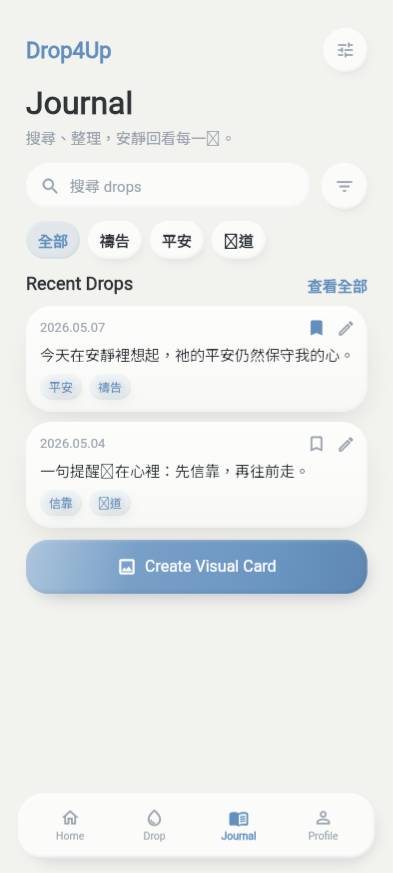
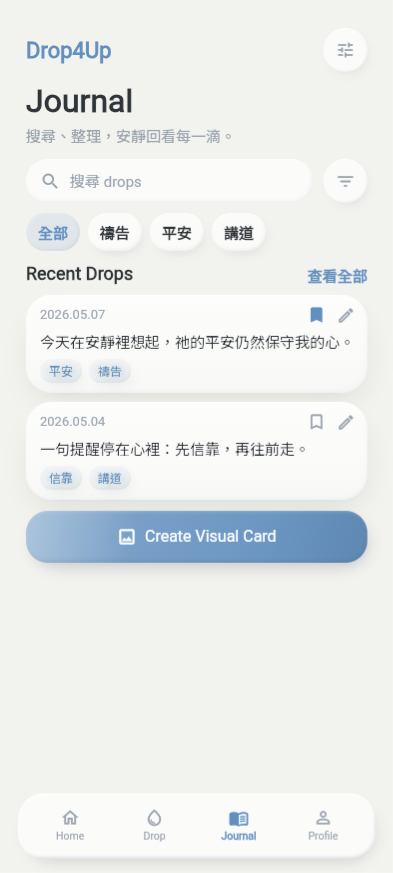
Refine Journal spacing and Profile badges

diff --git a/lib/screens/profile_screen.dart b/lib/screens/profile_screen.dart
@@ -96,16 +96,10 @@ class _ProfileSummaryCard extends StatelessWidget {
       padding: const EdgeInsets.fromLTRB(16, 15, 16, 15),
       child: Row(
         children: [
-          Drop4UpTactileSurface(
-            radius: 24,
-            width: 48,
-            height: 48,
-            color: Drop4UpTokens.lightBlue.withValues(alpha: 0.28),
-            child: const Icon(
-              Icons.person_outline_rounded,
-              size: 24,
-              color: Drop4UpTokens.primaryBlue,
-            ),
+          const _ProfileNeutralIconBadge(
+            icon: Icons.person_outline_rounded,
+            size: 48,
+            iconSize: 24,
           ),
           const SizedBox(width: 14),
           Expanded(
@@ -148,18 +142,7 @@ class _ProfileActionRow extends StatelessWidget {
       padding: const EdgeInsets.symmetric(horizontal: 14),
       child: Row(
         children: [
-          Drop4UpTactileSurface(
-            variant: Drop4UpTactileSurfaceVariant.inset,
-            radius: 18,
-            width: 36,
-            height: 36,
-            color: Drop4UpTokens.lightBlue.withValues(alpha: 0.22),
-            child: Icon(
-              action.icon,
-              size: 19,
-              color: Drop4UpTokens.primaryBlue,
-            ),
-          ),
+          _ProfileNeutralIconBadge(icon: action.icon, size: 36, iconSize: 19),
           const SizedBox(width: 12),
           Expanded(
             child: Column(
@@ -195,6 +178,29 @@ class _ProfileActionRow extends StatelessWidget {
           ),
         ],
       ),
+    );
+  }
+}
+
+class _ProfileNeutralIconBadge extends StatelessWidget {
+  const _ProfileNeutralIconBadge({
+    required this.icon,
+    required this.size,
+    required this.iconSize,
+  });
+
+  final IconData icon;
+  final double size;
+  final double iconSize;
+
+  @override
+  Widget build(BuildContext context) {
+    return Drop4UpTactileSurface(
+      radius: size / 2,
+      width: size,
+      height: size,
+      color: Drop4UpTokens.cardSurface,
+      child: Icon(icon, size: iconSize, color: Drop4UpTokens.textSecondary),
     );
   }
 }

diff --git a/lib/screens/journal_screen.dart b/lib/screens/journal_screen.dart
@@ -56,7 +56,7 @@ class JournalScreen extends StatelessWidget {
             ),
           ],
         ),
-        const SizedBox(height: 14),
+        const SizedBox(height: 12),
         Text(
           'Journal',
           style: textTheme.headlineLarge?.copyWith(fontSize: 32, height: 1.08),
@@ -69,9 +69,9 @@ class JournalScreen extends StatelessWidget {
             color: Drop4UpTokens.textSecondary,
           ),
         ),
-        const SizedBox(height: 14),
-        const _SearchRow(),
         const SizedBox(height: 12),
+        const _SearchRow(),
+        const SizedBox(height: 10),
         Wrap(
           spacing: 8,
           runSpacing: 8,
@@ -84,7 +84,7 @@ class JournalScreen extends StatelessWidget {
               ),
           ],
         ),
-        const SizedBox(height: 14),
+        const SizedBox(height: 12),
         Row(
           children: [
             Text('Recent Drops', style: textTheme.titleMedium),
@@ -97,12 +97,12 @@ class JournalScreen extends StatelessWidget {
             ),
           ],
         ),
-        const SizedBox(height: 10),
+        const SizedBox(height: 9),
         for (final entry in _entries) ...[
           _JournalEntryCard(entry: entry),
-          if (entry != _entries.last) const SizedBox(height: 10),
+          if (entry != _entries.last) const SizedBox(height: 9),
         ],
-        const SizedBox(height: 12),
+        const SizedBox(height: 11),
         const _CreateVisualCardButton(),
       ],
     );
@@ -121,7 +121,7 @@ class _SearchRow extends StatelessWidget {
         Expanded(
           child: Drop4UpTactileSurface(
             variant: Drop4UpTactileSurfaceVariant.inset,
-            height: 46,
+            height: 44,
             radius: 23,
             padding: const EdgeInsets.symmetric(horizontal: 14),
             child: Row(
@@ -146,7 +146,7 @@ class _SearchRow extends StatelessWidget {
         SoftIconButton(
           icon: Icons.filter_list_rounded,
           label: '篩選',
-          size: 46,
+          size: 44,
           iconSize: 21,
           onTap: () {},
         ),
@@ -167,7 +167,7 @@ class _JournalEntryCard extends StatelessWidget {
     return SoftSurface(
       variant: SoftSurfaceVariant.prominent,
       radius: 26,
-      padding: const EdgeInsets.fromLTRB(14, 12, 12, 12),
+      padding: const EdgeInsets.fromLTRB(14, 10, 12, 10),
       child: Column(
         crossAxisAlignment: CrossAxisAlignment.start,
         children: [
@@ -204,7 +204,7 @@ class _JournalEntryCard extends StatelessWidget {
             overflow: TextOverflow.ellipsis,
             style: textTheme.bodyMedium?.copyWith(height: 1.32),
           ),
-          const SizedBox(height: 9),
+          const SizedBox(height: 7),
           Wrap(
             spacing: 7,
             runSpacing: 7,
@@ -227,7 +227,7 @@ class _MiniTag extends StatelessWidget {
 
     return Drop4UpTactileSurface(
       radius: Drop4UpTokens.pillRadius,
-      padding: const EdgeInsets.symmetric(horizontal: 9, vertical: 6),
+      padding: const EdgeInsets.symmetric(horizontal: 9, vertical: 5),
       color: Drop4UpTokens.lightBlue.withValues(alpha: 0.18),
       child: Text(
         label,
@@ -249,7 +249,7 @@ class _CreateVisualCardButton extends StatelessWidget {
 
     return Drop4UpTactileSurface(
       variant: Drop4UpTactileSurfaceVariant.primaryRaised,
-      height: 54,
+      height: 52,
       radius: 22,
       color: Drop4UpTokens.primaryBlue,
       child: Row(